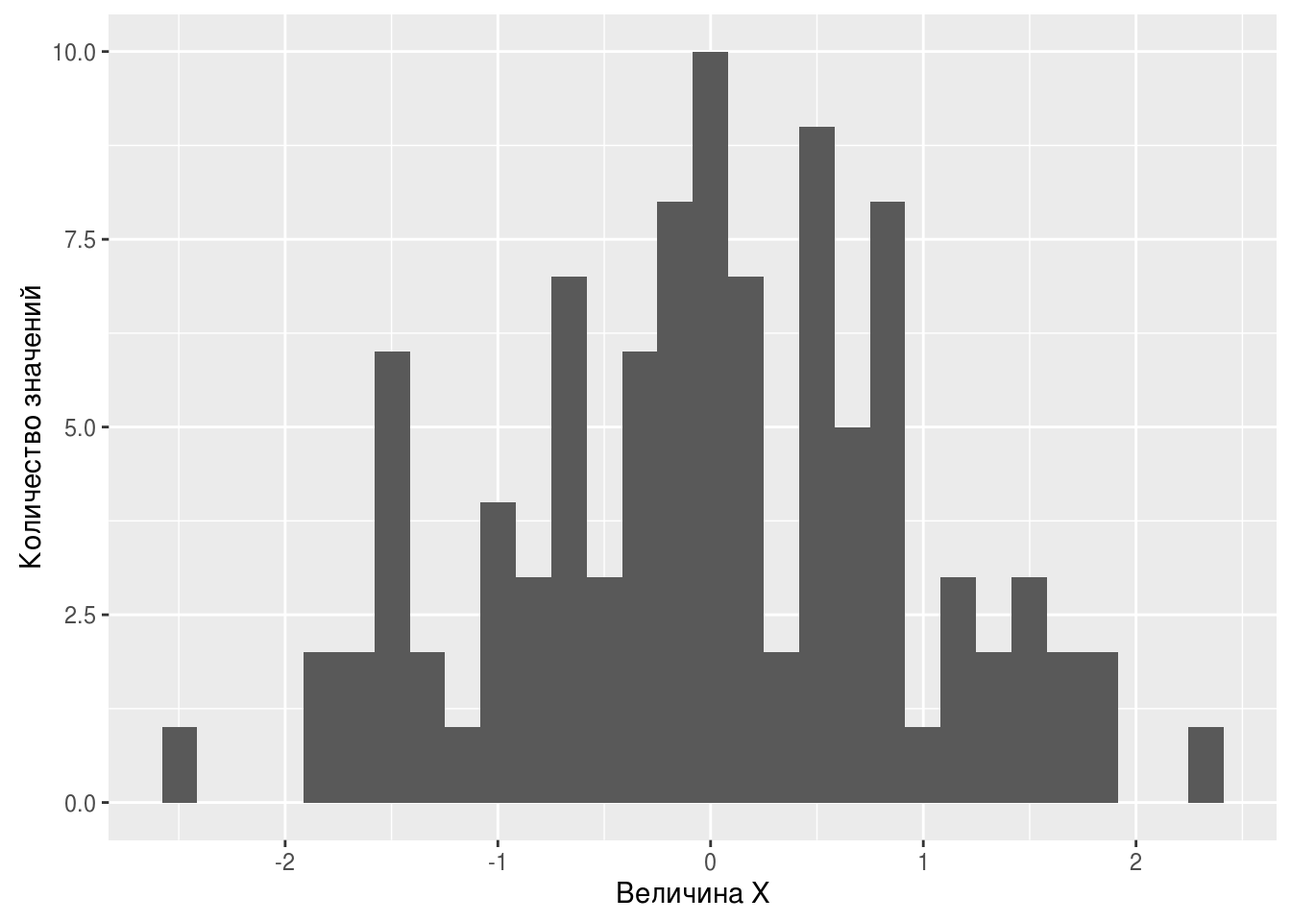
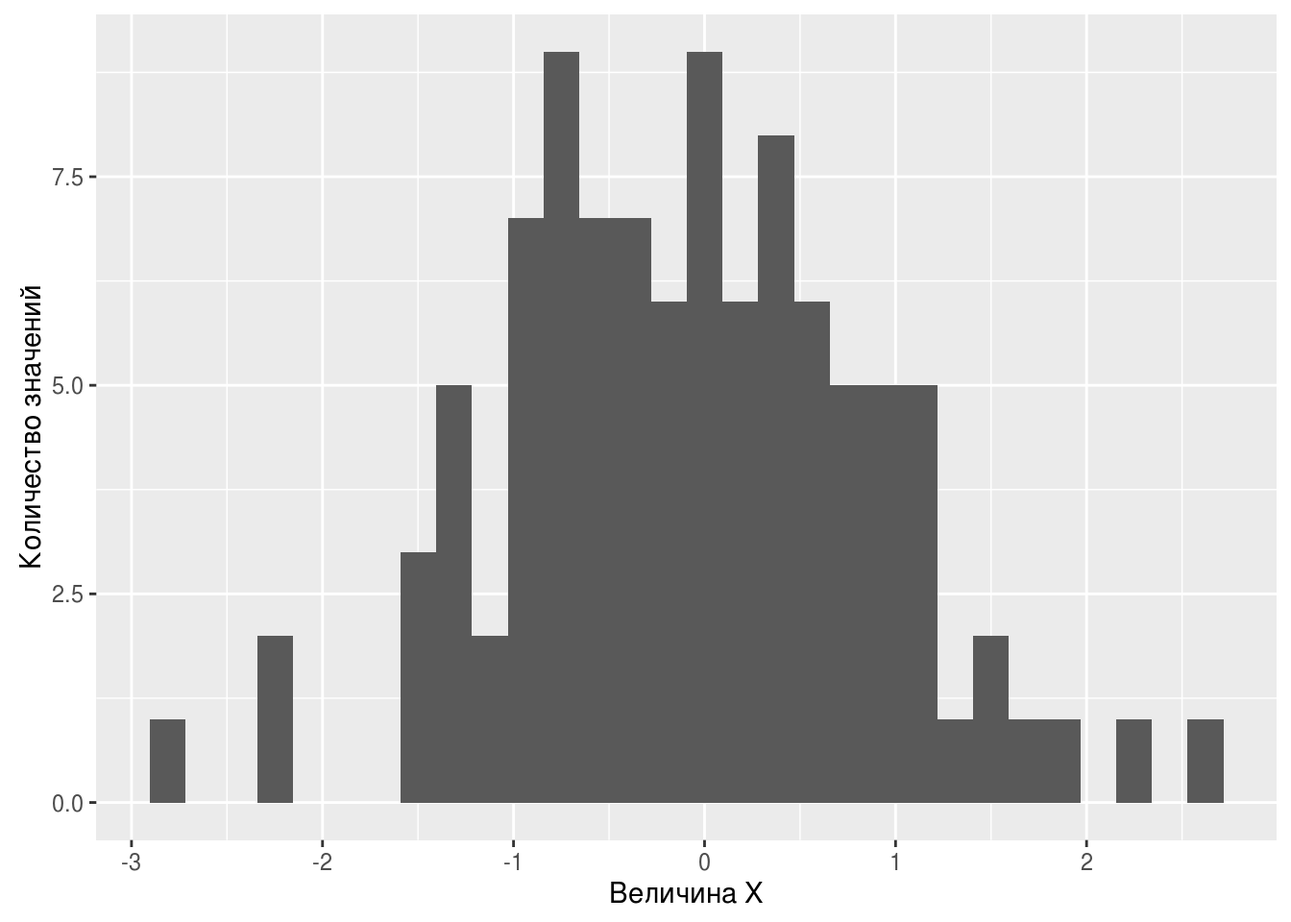
Update the book (38)

diff --git a/first-steps.html b/first-steps.html
@@ -25,7 +25,7 @@
 
 <meta name="author" content="Борис Демешев">
 
-<meta name="date" content="2016-09-02">
+<meta name="date" content="2016-09-03">
 
 <script type="text/x-mathjax-config">
 MathJax.Hub.Config({
@@ -225,7 +225,7 @@ code > span.in { color: #60a0b0; font-weight: bold; font-style: italic; } /* Inf
 <h3><span class="header-section-number">1.1.1</span> R</h3>
 <p>Windows:</p>
 <p>Macos:</p>
-<p>Linux:</p>
+<p>Linux на примере Ubuntu 16.04 Xenial:</p>
 <div class="sourceCode"><pre class="sourceCode bash"><code class="sourceCode bash"><span class="kw">sudo</span> echo <span class="st">&quot;deb http://cran.rstudio.com/bin/linux/ubuntu xenial/&quot;</span> <span class="kw">|</span> <span class="kw">sudo</span> tee -a /etc/apt/sources.list
 <span class="kw">gpg</span> --keyserver keyserver.ubuntu.com --recv-key E084DAB9
 <span class="kw">gpg</span> -a --export E084DAB9 <span class="kw">|</span> <span class="kw">sudo</span> apt-key add -
@@ -234,18 +234,27 @@ code > span.in { color: #60a0b0; font-weight: bold; font-style: italic; } /* Inf
 </div>
 <div id="install_Rstudio" class="section level3">
 <h3><span class="header-section-number">1.1.2</span> Rstudio</h3>
-<p>…</p>
+<p>Rstudio — это гламурная оболочка, позволяющая удобно работать с R. Никаких новых возможностей к R не добавляет, но делает многие вещи гораздо более удобными, особенно для новичка.</p>
+<p>Оболчка Rstudio открытая и бесплатная. Есть платная версия Rstudio, которая включает в себя поддержку пользователей. И иногда Rstudio путают с программой для восстановления данных R-studio, которая полностью платная.</p>
+<p>Текущую версию Rstudio для всех платформ можно …</p>
+<p>Любители заглянуть вперёд и опробовать новые фишки могут поставить preview-версию Rstudio … Теоретически подобная бета-версия может быть менее устойчивой чем обычная, но по моему опыту никаких проблем со стабильностью не было.</p>
 </div>
 <div id="install_Latex" class="section level3">
 <h3><span class="header-section-number">1.1.3</span> LaTeX</h3>
-<p>Латех — это система для создания красивых структурированных текстов. Пользоваться Вордом для написания курсовых или научных статей — это дурной вкус. Латех дарит возможность писать красивые математические формулы. В силу простоты текстового формата для хранения документов Латех идеально подходит для взаимодействия с другими программами. Связав R и Латех с помощью грамотного программирования, можно в один клик обновлять сложные отчёты при получении новых данных или избегать ошибок, связанных с копированием результатов вычислений в презентацию. И, конечно, Латех прекрасно подходит для любой системы контроля версий — можно легко держать несколько версий документов и наглядно сравнить их.</p>
+<p>Латех — это система для создания красивых структурированных текстов. Пользоваться Вордом для написания курсовых или научных статей — это дурной вкус. Латех дарит возможность писать красивые математические формулы. В силу простоты текстового формата для хранения документов Латех идеально подходит для взаимодействия с другими программами. Связав R и Латех с помощью грамотного программирования, можно в один клик обновлять сложные отчёты при получении новых данных или избегать ошибок, связанных с копированием результатов вычислений в презентацию.</p>
 <p>Под Linux основной дистрибутив латеха — это TeXLive.</p>
 <p>Под Macos основной дистрибутив латеха — это Mactex.</p>
-<p>Под Windows существует два конкурирующих по популярности дистрибутива — TexLive и Miktex. Я лично рекомендую TexLive, но</p>
+<p>Под Windows существует два конкурирующих дистрибутива — TexLive и Miktex. Я лично рекомендую TexLive, но Miktex тоже подойдёт.</p>
+<p>Важно ставить полную версию латеха со всеми пакетами. Это может потребовать более часа, и занять несколько гигабайт жёсткого диска, но красивые документы того стоят.</p>
+<p>Если нет необходимости делать красивые структурированные документы в <code>pdf</code> формате, то без Латеха можно обойтись.</p>
+<p>В данном учебнике не будет серьёзного введения в латех, мы только затронем вопрос взаимодействия R-латех.</p>
+<p>Хорошими введениями в тех будут: Воронцов, …<a href="#fn1" class="footnoteRef" id="fnref1"><sup>1</sup></a></p>
 </div>
 <div id="install_git" class="section level3">
 <h3><span class="header-section-number">1.1.4</span> git-клиент</h3>
-<p>…</p>
+<p>ubuntu</p>
+<div class="sourceCode"><pre class="sourceCode bash"><code class="sourceCode bash"><span class="kw">git</span> config --global user.name <span class="st">&quot;Ivan Ivanov&quot;</span>
+<span class="kw">git</span> config --global user.email Ivan_Ivanov@ivanov_mail.com</code></pre></div>
 </div>
 <div id="install_editor" class="section level3">
 <h3><span class="header-section-number">1.1.5</span> Текстовый редактор</h3>
@@ -262,6 +271,8 @@ code > span.in { color: #60a0b0; font-weight: bold; font-style: italic; } /* Inf
 </div>
 <div id="install_lyx" class="section level3">
 <h3><span class="header-section-number">1.1.8</span> LyX</h3>
+<p>Многие пользователи привыкшие к Ворду тяжело переходят на латех. Ведь в текстовом редакторе не видно формулу в привычном виде, а виден только её код. Редактор LyX заполняет эту нишу: используя за кадром тех, он показывает пользователю формулы, таблицы и рисунке в естественном виде. При этом LyX отлично взаимодействует с R.</p>
+<p>Недостатком LyX, пожалуй, является его невысокая популярность. Пользователи боящиеся латеха сидят в Ворде, а те, кто понял прелести латеха, уже не хотят ничего вспомогательного :)</p>
 </div>
 <div id="install_font" class="section level3">
 <h3><span class="header-section-number">1.1.9</span> Шрифты</h3>
@@ -269,8 +280,8 @@ code > span.in { color: #60a0b0; font-weight: bold; font-style: italic; } /* Inf
 <div class="sourceCode"><pre class="sourceCode bash"><code class="sourceCode bash"><span class="kw">sudo</span> add-apt-repository ppa:font-manager/staging
 <span class="kw">sudo</span> apt-get update
 <span class="kw">sudo</span> apt-get install font-manager</code></pre></div>
-<p>Шрифт Linux Libertine,</p>
-<p>Шрифты могут быть записаны в разных форматах. Выбирайте OTF.</p>
+<p>В pdf-версии данного учебника используется шрифт Linux Libertine. Он открытый и бесплатный и содержит буквы как русского, так и многих других алфавитов. Скачать его можно здесь: …</p>
+<p>Шрифты могут быть записаны в разных форматах. Основные — это TTF, OTF и Post-script. Рядовой пользователь может смело выбирать TTF или OTF, а Post-script нужен скорее дизайнерам и типографам.</p>
 </div>
 <div id="pandoc" class="section level3">
 <h3><span class="header-section-number">1.1.10</span> Pandoc</h3>
@@ -349,17 +360,18 @@ vect</code></pre></div>
 s &lt;-<span class="st"> </span><span class="kw">runif</span>(<span class="dv">40</span>, <span class="dt">min =</span> -<span class="dv">3</span>, <span class="dt">max =</span> <span class="dv">1</span>) 
 b &lt;-<span class="st"> </span>s[s &gt;<span class="st"> </span><span class="dv">0</span>] <span class="co"># отбираем те s, что больше нуля</span>
 b </code></pre></div>
-<pre><code>## [1] 0.1800838 0.4127222 0.5587911 0.1375717 0.6082114 0.8970315</code></pre>
+<pre><code>##  [1] 0.6011786 0.1859400 0.9311192 0.4426834 0.7401733 0.4253920 0.8854138
+##  [8] 0.9149207 0.7487445 0.5564027 0.1888164</code></pre>
 <p>Можно выбрать конкретные <span class="math inline">\(s\)</span>, например с 6-го по 20-ое: <code>{r} s[6:20]</code></p>
 <p>Хочу 5-ый, 7-ой и 13-ый элементы вектора!</p>
 <div class="sourceCode"><pre class="sourceCode r"><code class="sourceCode r">s[<span class="kw">c</span>(<span class="dv">5</span>, <span class="dv">7</span>, <span class="dv">13</span>)] </code></pre></div>
-<pre><code>## [1] -0.1673050 -1.5859651 -0.3177856</code></pre>
+<pre><code>## [1]  0.4426834  0.7401733 -1.8036189</code></pre>
 <p>Можно узнать, сколько значений <code>s</code> больше нуля:</p>
 <div class="sourceCode"><pre class="sourceCode r"><code class="sourceCode r"><span class="kw">sum</span>(s &gt;<span class="st"> </span><span class="dv">0</span>) </code></pre></div>
-<pre><code>## [1] 6</code></pre>
+<pre><code>## [1] 11</code></pre>
 <p>Еще полезная штучка — количество элементов в векторе:</p>
 <div class="sourceCode"><pre class="sourceCode r"><code class="sourceCode r"><span class="kw">length</span>(b) </code></pre></div>
-<pre><code>## [1] 6</code></pre>
+<pre><code>## [1] 11</code></pre>
 <p>Операции, похожие на те, что проделали с векторами, можно делать и с другими типами данных, например, с матрицами (<em>matrix</em>), таблицами (<em>table</em>) и др. Покажем на примере наборов данных (<em>data frame</em>).</p>
 <p>Будем использовать набор данных <code>diamonds</code> из пакета <code>ggplot2</code>. Множество других встроены во многие пакеты, а также в сам R, и список с кратким описанием последних можно вызвать командой <code>library(help = &quot;datasets&quot;)</code>.</p>
 <p>Наборы данных состоят из строк (<em>rows</em>) и столбцов (<em>columns</em>); в каждой строке хорошо построенного набора — характеристики одного объекта, а по столбцам — значения одной характеристики у разных объектов. Так, например, в <code>diamonds</code> объектами являются бриллианты, а их характеристиками — цена, вес, цвет и т. д. Это можно увидеть с помощью всё той же команды <code>str()</code>:</p>
@@ -432,8 +444,8 @@ b </code></pre></div>
 <p>….</p>
 <p>Если текст программы содержит русские или другие неанглийские буквы, например, в комментариях, то при сохранении файла Rstudio предложит выбрать кодировку.</p>
 <p>картинка</p>
-<p>Кодировка определяет какой конкретно числовой код будет сопоставлен в записанном файле каждой букве. Например, букве <code>ё</code> в кодировке UTF-8 сопоставлен десятичный<a href="#fn1" class="footnoteRef" id="fnref1"><sup>1</sup></a> код 1105.</p>
-<p>Для русского языка есть несколько распространённых кодировок: UTF-8 и CP1251. Linux и Macos используют по умолчанию кодировку UTF-8, а вот Windows<a href="#fn2" class="footnoteRef" id="fnref2"><sup>2</sup></a> сохраняет простые текстовые файлы в кодировке CP1251.</p>
+<p>Кодировка определяет какой конкретно числовой код будет сопоставлен в записанном файле каждой букве. Например, букве <code>ё</code> в кодировке UTF-8 сопоставлен десятичный<a href="#fn2" class="footnoteRef" id="fnref2"><sup>2</sup></a> код 1105.</p>
+<p>Для русского языка есть несколько распространённых кодировок: UTF-8 и CP1251. Linux и Macos используют по умолчанию кодировку UTF-8, а вот Windows<a href="#fn3" class="footnoteRef" id="fnref3"><sup>3</sup></a> сохраняет простые текстовые файлы в кодировке CP1251.</p>
 <p>Если русскоязычный файл записать в одной кодировке, а пытаться открыть с помощью другой, то мы увидим на экране “кракозябры”. Поэтому хорошо, когда все используют одну кодировку. Кодировка UTF-8 более универсальна, чем CP1251. Например, с помощью кодировки UTF-8 в одном тексте можно использовать и русские буквы и французские акценты и китайские иероглифы.</p>
 <div class="warning">
 <p>
@@ -740,8 +752,9 @@ y &lt;-<span class="st"> </span><span class="kw">rnorm</span>(<span class="dv">5
 <div class="footnotes">
 <hr />
 <ol start="1">
-<li id="fn1"><p>Если шестнадцатиричный, то 0451. Ради интереса можно посмотреть сопоставление букв и их кодов в UTF-8, например, на <a href="http://unicode-table.com/ru/">unicode-table.com</a><a href="first-steps.html#fnref1">↩</a></p></li>
-<li id="fn2"><p>На самом деле всё немного хитрее и сама Windows технически использует UTF-16, а вот многие приложения под ней — CP1251.<a href="first-steps.html#fnref2">↩</a></p></li>
+<li id="fn1"><p>Единственным неудачным советом в книжке Воронцова, пожалуй, является выбор кодировки СP1251, правильнее выбирать UTF-8.<a href="first-steps.html#fnref1">↩</a></p></li>
+<li id="fn2"><p>Если шестнадцатиричный, то 0451. Ради интереса можно посмотреть сопоставление букв и их кодов в UTF-8, например, на <a href="http://unicode-table.com/ru/">unicode-table.com</a><a href="first-steps.html#fnref2">↩</a></p></li>
+<li id="fn3"><p>На самом деле всё немного хитрее и сама Windows технически использует UTF-16, а вот многие приложения под ней — CP1251.<a href="first-steps.html#fnref3">↩</a></p></li>
 </ol>
 </div>
             </section>

diff --git a/statistics-and-more.html b/statistics-and-more.html
@@ -25,7 +25,7 @@
 
 <meta name="author" content="Борис Демешев">
 
-<meta name="date" content="2016-09-02">
+<meta name="date" content="2016-09-03">
 
 <script type="text/x-mathjax-config">
 MathJax.Hub.Config({
@@ -206,17 +206,17 @@ code > span.in { color: #60a0b0; font-weight: bold; font-style: italic; } /* Inf
 <p>Для решения задач по теории вероятностей или исследования свойств статистических алгоритмов может потребоваться сгененировать случайную выборку из заданного закона распределения.</p>
 <p>Генерируем 10 равномерных на отрезке <span class="math inline">\([4;10.5]\)</span> случайных величин:</p>
 <div class="sourceCode"><pre class="sourceCode r"><code class="sourceCode r"><span class="kw">runif</span>(<span class="dv">10</span>, <span class="dt">min =</span> <span class="dv">4</span>, <span class="dt">max =</span> <span class="fl">10.5</span>)</code></pre></div>
-<pre><code>##  [1] 9.277587 9.055284 9.903866 5.819976 7.887878 4.733415 8.144020
-##  [8] 4.910398 4.972282 5.533583</code></pre>
+<pre><code>##  [1]  6.751261  9.449217  4.441931  8.013823  5.351436  6.443673  8.916293
+##  [8]  4.038342  5.478209 10.477062</code></pre>
 <p>Генерируем 10 нормальных <span class="math inline">\(N(2;9)\)</span> случайных величин с математическим ожиданием <span class="math inline">\(2\)</span> и дисперсией <span class="math inline">\(9=3^2\)</span>:</p>
 <div class="sourceCode"><pre class="sourceCode r"><code class="sourceCode r"><span class="kw">rnorm</span>(<span class="dv">10</span>, <span class="dt">mean =</span> <span class="dv">2</span>, <span class="dt">sd =</span> <span class="dv">3</span>)</code></pre></div>
-<pre><code>##  [1]  1.4025450 -1.6152330 -3.3019458  1.9007794 -1.5564126  6.2173741
-##  [7]  0.7813515  2.7858200  4.2417130  5.4469299</code></pre>
+<pre><code>##  [1] 1.6384060 1.0195444 3.1556771 1.0034904 5.7469059 2.4917102 4.4091760
+##  [8] 1.6197086 0.3403347 2.3380592</code></pre>
 <p>Например, с помощью симуляций легко оценить математическое ожидание <span class="math inline">\(E(1/X)\)</span>, где <span class="math inline">\(X \sim N(2;9)\)</span>. Для этого мы вспомним Закон Больших Чисел. Он говорит, что арифметическое среднее по большой выборке стремится по вероятности и почти наверное к математическому ожиданию. Поэтому мы просто сгенерируем большую выборку в миллион наблюдений:</p>
 <div class="sourceCode"><pre class="sourceCode r"><code class="sourceCode r">n_obs &lt;-<span class="st"> </span><span class="dv">10</span>^<span class="dv">6</span>
 x &lt;-<span class="st"> </span><span class="kw">rnorm</span>(n_obs, <span class="dt">mean =</span> <span class="dv">2</span>, <span class="dt">sd =</span> <span class="dv">3</span>)
 <span class="kw">mean</span>(<span class="dv">1</span>/x)</code></pre></div>
-<pre><code>## [1] 6.052177</code></pre>
+<pre><code>## [1] -0.3361361</code></pre>
 <p>Также легко оценить многие вероятности. Например, оценим вероятность <span class="math inline">\(P(X_1 + X_2 + X_3^2 &gt; 5)\)</span>, где величины <span class="math inline">\(X_i\)</span> независимы и одинаково распределены <span class="math inline">\(X_i \sim U[0;2]\)</span>:</p>
 <div class="sourceCode"><pre class="sourceCode r"><code class="sourceCode r">n_obs &lt;-<span class="st"> </span><span class="dv">10</span>^<span class="dv">6</span>
 x_1 &lt;-<span class="st"> </span><span class="kw">runif</span>(n_obs, <span class="dt">min =</span> <span class="dv">0</span>, <span class="dt">max =</span> <span class="dv">2</span>)
@@ -224,7 +224,7 @@ x_2 &lt;-<span class="st"> </span><span class="kw">runif</span>(n_obs, <span cla
 x_3 &lt;-<span class="st"> </span><span class="kw">runif</span>(n_obs, <span class="dt">min =</span> <span class="dv">0</span>, <span class="dt">max =</span> <span class="dv">2</span>)
 success &lt;-<span class="st"> </span>x_1 +<span class="st"> </span>x_2 +<span class="st"> </span>x_3^<span class="dv">2</span> &gt;<span class="st"> </span><span class="dv">5</span>
 <span class="kw">sum</span>(success) /<span class="st"> </span>n_obs</code></pre></div>
-<pre><code>## [1] 0.147717</code></pre>
+<pre><code>## [1] 0.147396</code></pre>
 <p>Здесь вектор <code>success</code> будет содержать значение TRUE там, где условие <code>x_1 + x_2 + x_3^2 &gt; 5</code> выполнено, и FALSE там, где условие не выполнено. При сложении командой <code>sum()</code> каждое TRUE будет посчитано как единица, а каждое FALSE как ноль. Поэтому <code>sum(success)</code> даст количество раз, когда условие <code>x_1 + x_2 + x_3^2 &gt; 5</code> выполнено.</p>
 <p>С любым распределением <code>[xxx]</code> в R связано четыре функции: <code>r[xxx]</code>, <code>d[xxx]</code>, <code>p[xxx]</code> и <code>q[xxx]</code>. Для примера возьмём нормальное распределение <span class="math inline">\(N(2;9)\)</span>:</p>
 <ul>
@@ -232,8 +232,8 @@ success &lt;-<span class="st"> </span>x_1 +<span class="st"> </span>x_2 +<span c
 </ul>
 <div class="sourceCode"><pre class="sourceCode r"><code class="sourceCode r">x &lt;-<span class="st"> </span><span class="kw">rnorm</span>(<span class="dv">100</span>, <span class="dt">mean =</span> <span class="dv">2</span>, <span class="dt">sd =</span> <span class="dv">3</span>) <span class="co"># случайная выборка из 100 нормальных N(2; 9) величин</span>
 <span class="kw">head</span>(x, <span class="dv">10</span>) <span class="co"># первые 10 элементов вектора</span></code></pre></div>
-<pre><code>##  [1]  5.2783726 -1.2954922  4.3458068  5.7516947  2.2141368  4.9804158
-##  [7]  0.2338823  2.9287008 -0.5145251  0.7145030</code></pre>
+<pre><code>##  [1] -0.3170109  6.2058881 -2.4197002  1.8522873  6.4152288  0.5038698
+##  [7]  0.2121127  3.6467676  3.4467914  4.3233213</code></pre>
 <ul>
 <li>Функция плотности — <code>dnorm</code>:</li>
 </ul>
@@ -260,15 +260,15 @@ y &lt;-<span class="st"> </span><span class="kw">pnorm</span>(x, <span class="dt
 <pre><code>## [1] -2.934561 -1.109300  5.844655</code></pre>
 <p>Иногда бывает полезно получить случайную выборку из заданного вектора без повторений:</p>
 <div class="sourceCode"><pre class="sourceCode r"><code class="sourceCode r"><span class="kw">sample</span>(<span class="dv">1</span>:<span class="dv">100</span>, <span class="dt">size =</span> <span class="dv">20</span>)</code></pre></div>
-<pre><code>##  [1] 33 36 17 42 91 77 30 92 24 47 93 72 11 99 88  4 82 26 22 96</code></pre>
+<pre><code>##  [1] 70 94 86 30 47 43 16 77 58 28  6 39 82 79 32 27 45 11 24 80</code></pre>
 <p>Или с повторениями:</p>
 <div class="sourceCode"><pre class="sourceCode r"><code class="sourceCode r"><span class="kw">sample</span>(<span class="kw">c</span>(<span class="st">&quot;Орёл&quot;</span>, <span class="st">&quot;Решка&quot;</span>), <span class="dt">size =</span> <span class="dv">10</span>, <span class="dt">replace =</span> <span class="ot">TRUE</span>)</code></pre></div>
-<pre><code>##  [1] &quot;Орёл&quot;  &quot;Решка&quot; &quot;Решка&quot; &quot;Орёл&quot;  &quot;Орёл&quot;  &quot;Решка&quot; &quot;Решка&quot; &quot;Решка&quot;
-##  [9] &quot;Орёл&quot;  &quot;Орёл&quot;</code></pre>
+<pre><code>##  [1] &quot;Решка&quot; &quot;Орёл&quot;  &quot;Решка&quot; &quot;Орёл&quot;  &quot;Решка&quot; &quot;Орёл&quot;  &quot;Решка&quot; &quot;Орёл&quot; 
+##  [9] &quot;Орёл&quot;  &quot;Решка&quot;</code></pre>
 <p>Можно добавить неравные вероятности:</p>
 <div class="sourceCode"><pre class="sourceCode r"><code class="sourceCode r"><span class="kw">sample</span>(<span class="kw">c</span>(<span class="st">&quot;Орёл&quot;</span>, <span class="st">&quot;Решка&quot;</span>), <span class="dt">size =</span> <span class="dv">10</span>, <span class="dt">replace =</span> <span class="ot">TRUE</span>, <span class="dt">prob =</span> <span class="kw">c</span>(<span class="fl">0.3</span>, <span class="fl">0.7</span>))</code></pre></div>
-<pre><code>##  [1] &quot;Решка&quot; &quot;Решка&quot; &quot;Решка&quot; &quot;Орёл&quot;  &quot;Орёл&quot;  &quot;Решка&quot; &quot;Орёл&quot;  &quot;Решка&quot;
-##  [9] &quot;Орёл&quot;  &quot;Орёл&quot;</code></pre>
+<pre><code>##  [1] &quot;Решка&quot; &quot;Решка&quot; &quot;Орёл&quot;  &quot;Решка&quot; &quot;Решка&quot; &quot;Решка&quot; &quot;Решка&quot; &quot;Решка&quot;
+##  [9] &quot;Решка&quot; &quot;Орёл&quot;</code></pre>
 <p>Если выполнить команду <code>rnorm(10, mean = 2, sd = 3)</code> на двух разных компьютерах или два раза на одном и том же, то результат будет разный. Не зря же они случайные :) Однако генерирование случайных величин никак не противоречит идее абсолютно точной воспроизводимости исследований. Для того, чтобы получились одинаковые результаты, необходимо синхронизировать генераторы случайных чисел на этих двух компьютерах. Делается это путём задания <strong>зерна</strong> генератора случайных чисел (seed). Зерно также называют <strong>стартовым значением</strong>. В качестве зерна подойдёт любое целое число.</p>
 <p>И в результате запуска кода</p>
 <div class="sourceCode"><pre class="sourceCode r"><code class="sourceCode r"><span class="kw">set.seed</span>(<span class="dv">42</span>)
@@ -391,6 +391,7 @@ y &lt;-<span class="st"> </span><span class="kw">pnorm</span>(x, <span class="dt
 </div>
 </div>
 </div>
+
 
 
 

diff --git a/friends-of-R.html b/friends-of-R.html
@@ -25,7 +25,7 @@
 
 <meta name="author" content="Борис Демешев">
 
-<meta name="date" content="2016-09-02">
+<meta name="date" content="2016-09-03">
 
 <script type="text/x-mathjax-config">
 MathJax.Hub.Config({
@@ -276,8 +276,9 @@ code > span.in { color: #60a0b0; font-weight: bold; font-style: italic; } /* Inf
 <p>Создаём новый токен на <a href="https://github.com/settings/tokens">github</a>: кликнуть по иконке пользователя, далее settings - token - generate new token.</p>
 <div class="sourceCode"><pre class="sourceCode bash"><code class="sourceCode bash"><span class="kw">sudo</span> gem install travis
 <span class="kw">travis</span> encrypt GITHUB_TOKEN=[token from githum]</code></pre></div>
-<p>Именно переменная <code>GITHUB_TOKEN</code> должна использоваться для того, чтобы обращаться к гитхабу, т.е.</p>
-<div class="sourceCode"><pre class="sourceCode bash"><code class="sourceCode bash"></code></pre></div>
+<p>Именно переменная <code>GITHUB_TOKEN</code> должна использоваться для того, чтобы обращаться к гитхабу, т.е. клонируется ветка gh-pages командой</p>
+<div class="sourceCode"><pre class="sourceCode bash"><code class="sourceCode bash"><span class="kw">git</span> clone -b gh-pages https://<span class="ot">${GITHUB_TOKEN}</span>@github.com/<span class="ot">${TRAVIS_REPO_SLUG}</span>.git book-output</code></pre></div>
+<p>Переменная <code>TRAVIS_REPO_SLUG</code> будет сама определена сервисом Travis и будет равна названию репозитория.</p>
 <p>Добавляем получившуюся закодированную строку в <code>.travis.yml</code>. Забавно, что похоже используется рандомный ключ для шифрования и поэтому зашифрованная строка каждый раз выходит разной.</p>
 <p>Можно не шифровать её, а добавить в travis-ci.org/user/repo/settings</p>
 <p>Для быстрой компиляции добавляем в <code>.travis.yml</code> указание, что мы будем использовать готовые бинарные пакеты R:</p>
@@ -285,7 +286,11 @@ code > span.in { color: #60a0b0; font-weight: bold; font-style: italic; } /* Inf
   <span class="kw">-</span> ggplot2
   <span class="kw">-</span> dplyr
   <span class="kw">-</span> rio</code></pre></div>
-<p>Черт его знает? всё равно компилирует?</p>
+<p>Для того, чтобы эти опции не были проигнорированы <code>.travis.yml</code> должен содержать строку <code>sudo: required</code>.</p>
+<p>Если бинарный пакет слишком старый или вообще отсутствует, можно проинсталлировать его обычным образом, для этого добавляем строки</p>
+<div class="sourceCode"><pre class="sourceCode bash"><code class="sourceCode bash"><span class="kw">r_packages</span>:
+  <span class="kw">-</span> devtools
+  <span class="kw">-</span> rio</code></pre></div>
 <ol start="8" style="list-style-type: decimal">
 <li>Красный шрифт</li>
 </ol>

diff --git a/index.html b/index.html
@@ -25,7 +25,7 @@
 
 <meta name="author" content="Борис Демешев">
 
-<meta name="date" content="2016-09-02">
+<meta name="date" content="2016-09-03">
 
 <script type="text/x-mathjax-config">
 MathJax.Hub.Config({
@@ -201,7 +201,7 @@ code > span.in { color: #60a0b0; font-weight: bold; font-style: italic; } /* Inf
 <div id="header">
 <h1 class="title">Учебник по языку R для начинающих</h1>
 <h4 class="author"><em>Борис Демешев</em></h4>
-<h4 class="date"><em>2016-09-02</em></h4>
+<h4 class="date"><em>2016-09-03</em></h4>
 </div>
 <div id="-" class="section level1 unnumbered">
 <h1>О книге</h1>
